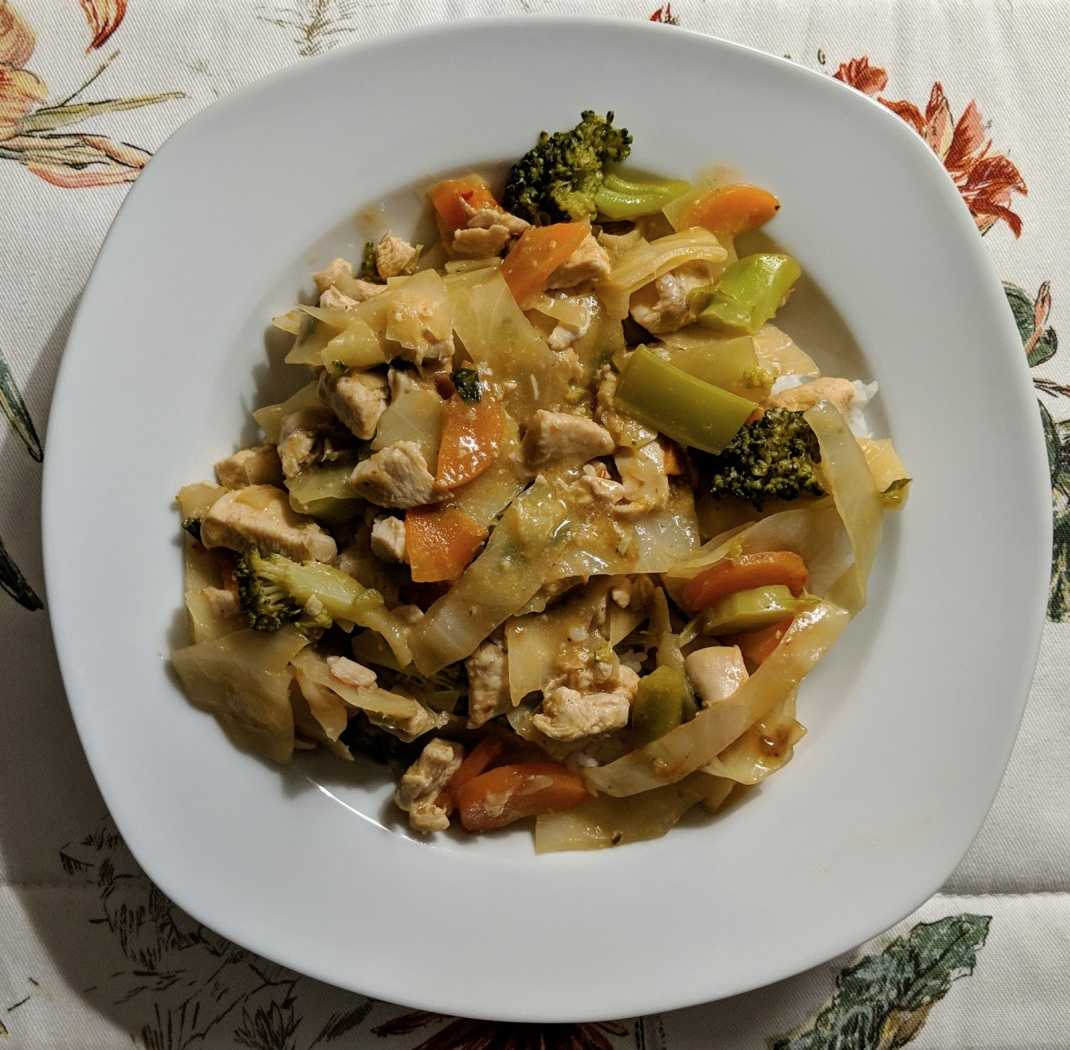
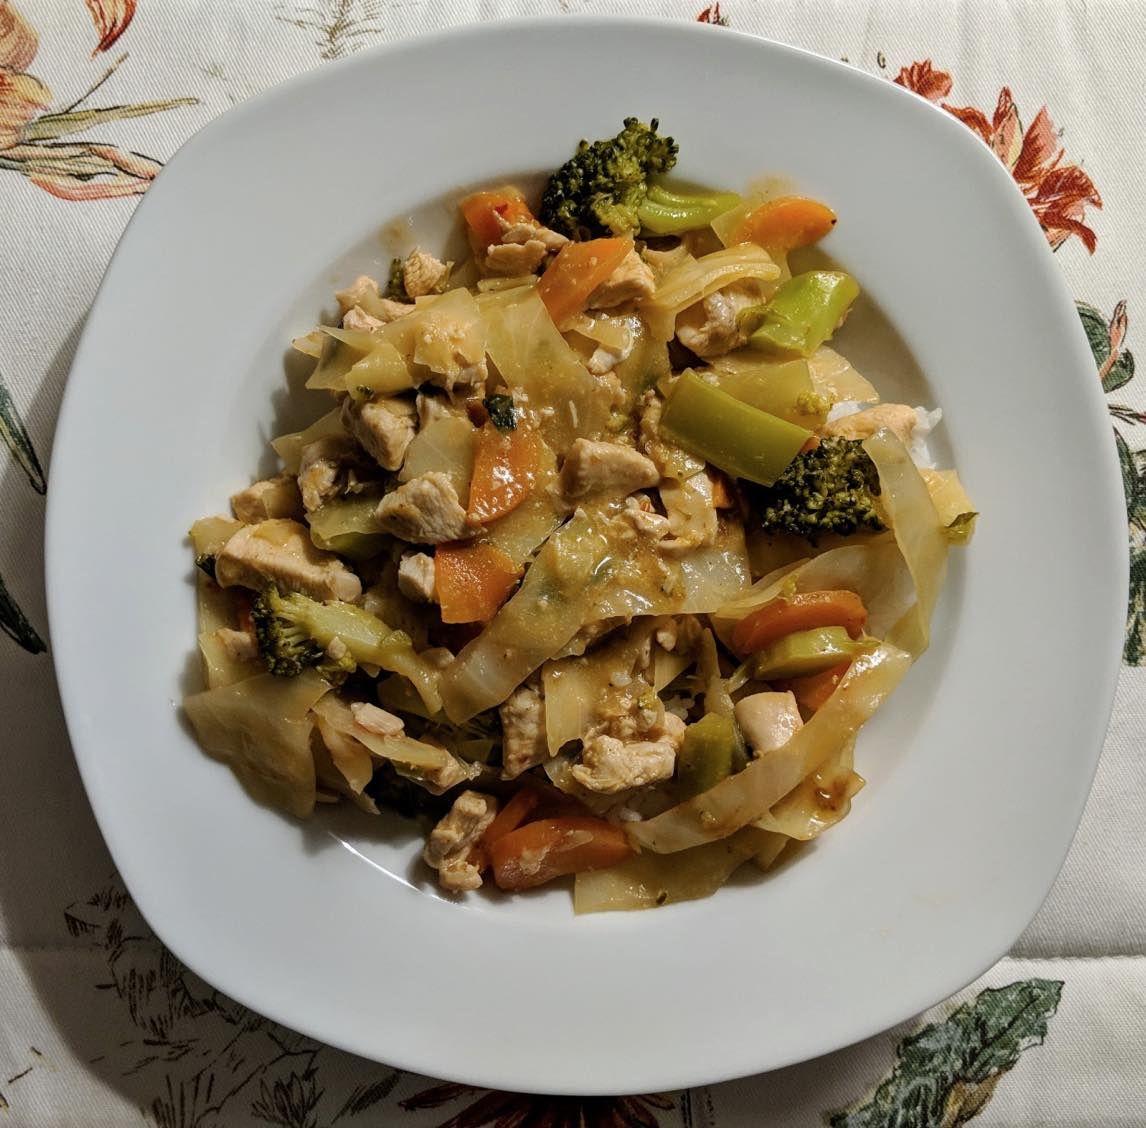
Add thai chicken curry recipe

diff --git a/pages/recipes/weekday-meals/thai-chicken-curry.html b/pages/recipes/weekday-meals/thai-chicken-curry.html
@@ -1,0 +1,95 @@
+<!DOCTYPE html>
+<html lang="en">
+
+<script src="//code.jquery.com/jquery-1.10.2.js"></script>
+<script>
+    $(function () {
+        $("#footer").load("../../../includes/footer.html");
+        $("#header").load("../../../includes/recipe-header.html");
+    });
+</script>
+
+<head>
+    <title>Thai chicken curry</title>
+    <meta charset="utf-8">
+    <link rel="apple-touch-icon" sizes="180x180" href="../../../favicon_io/apple-touch-icon.png">
+    <link rel="icon" type="image/png" sizes="32x32" href="../../../favicon_io/favicon-32x32.png">
+    <link rel="icon" type="image/png" sizes="16x16" href="../../../favicon_io/favicon-16x16.png">
+    <link rel="manifest" href="../../../favicon_io/site.webmanifest">
+    <div id="header"></div>
+    <link rel="stylesheet" href="../../../main.css">
+</head>
+
+<body>
+    <nav class="navbar navbar-expand-lg navbar-light bg-light">
+        <a class="navbar-brand" href="../../../index.html">
+            <img src="../../../favicon_io/android-chrome-512x512.png" width="30" height="30"
+                class="d-inline-block align-top" alt="">
+        </a>
+        <button class="navbar-toggler" type="button" data-toggle="collapse" data-target="#navbarNavAltMarkup"
+            aria-controls="navbarNavAltMarkup" aria-expanded="false" aria-label="Toggle navigation">
+            <span class="navbar-toggler-icon"></span>
+        </button>
+        <div class="collapse navbar-collapse" id="navbarNavAltMarkup">
+            <div class="navbar-nav">
+                <a class="nav-item nav-link active" href="../../../index.html">Home <span
+                        class="sr-only">(current)</span></a>
+                <a class="nav-item nav-link" href="weekday-meals.html">Weekday meals</a>
+
+            </div>
+        </div>
+    </nav>
+
+    <div class="jumbotron text-center bg-light">
+        <h1>Thai chicken curry</h1>
+        <p>Mmmmm...</p>
+    </div>
+
+    <div class="container">
+        <div class="row">
+            <div class="col-sm-6">
+                <img class="img-fluid rounded" style="float:center" src="../../../images/thai-chicken-curry.jpg"
+                    alt="sample-text">
+            </div>
+            <div class="col-sm-6">
+                <h3>Ingredients</h3>
+                <ul>
+                    <li>4 chicken breast fillets, cut into strips</li>
+                    <li>2 Tbsp red Thai curry paste (add more or less to taste and depending on heat of paste)</li>
+                    <li>1 large clove of garlic, crushed</li>
+                    <li>4 cups chopped cabbage</li>
+                    <li>2 cups chopped broccoli</li>
+                    <li>400ml coconut milk</li>
+                    <li>1 Tbsp tomato sauce</li>
+                    <li>1 Tbsp soy sauce</li>
+                    <li>1 Tbsp lemon/lime juice</li>
+                    <li>2 Tbsp chopped basil</li>
+                    <li>1 Tbsp gravy powder in 3 Tbsp water</li>
+                </ul>
+
+                <h3>Instructions</h3>
+                <ol>
+                    <li>Coat chicken pieces in the curry paste.</li>
+                    <li>Heat oil in a large saucepan or wok, add chicken and crushed garlic and cook until chicken
+                        browns a little.
+                    </li>
+                    <li>Add vegetables and stir fry until cabbage browns a little.</li>
+                    <li>Add coconut milk and tomato sauce; cover and allow to simmer until vegetables soften
+                        (approximately 10 minutes); add more curry paste to taste if desired.
+                    </li>
+                    <li>Add soy sauce, lemon juice and basil, and allow to heat through for a few minutes.</li>
+                    <li>Add the gravy mixture and allow to thicken for a few minutes; add more if a thicker sauce is
+                        desired.
+                    </li>
+                    <li>Serve on rice.</li>
+                </ol>
+                <p>
+                    Serves 4 to 5.
+                </p>
+            </div>
+        </div>
+    </div>
+</body>
+<div id="footer"></div>
+
+</html>

diff --git a/pages/recipes/weekday-meals/weekday-meals.html b/pages/recipes/weekday-meals/weekday-meals.html
@@ -129,6 +129,15 @@
                     <a href="chickpea-curry.html"></a>
                 </figure>
             </div>
+            <div class="col-auto">
+                <figure class="photo">
+                    <img src="../../../images/low-res/thai-chicken-curry.jpg" alt="sample image" />
+                    <figcaption>
+                        <h2>Thai chicken curry</h2>
+                    </figcaption>
+                    <a href="thai-chicken-curry.html"></a>
+                </figure>
+            </div>
         </div>
     </div>
 </body>

diff --git a/index.html b/index.html
@@ -135,13 +135,13 @@
         </div>
     </div>
 
-    <div class="container text-center">
+    <!-- <div class="container text-center">
         <div class="row">
             <div class="col-sm-12">
                 <p>More coming soon.</p>
             </div>
         </div>
-    </div>
+    </div> -->
 </body>
 <div id="footer"></div>
 
